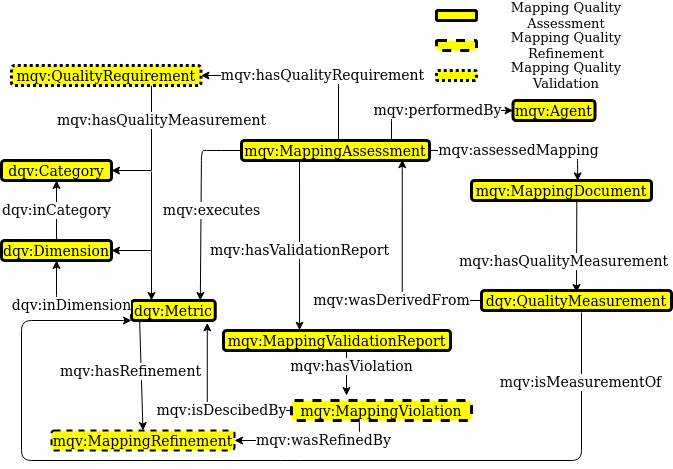
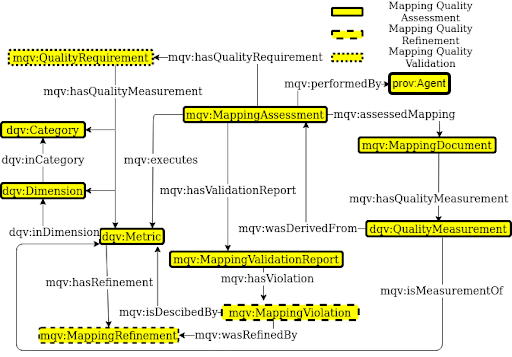
udpating description

diff --git a/sections/description-en.html b/sections/description-en.html
@@ -19,7 +19,7 @@ These stages are categorized as  mapping quality assessment,  mapping quality re
 
 <p> 
 <strong>Mapping quality assessment.</strong>In this stage, the mapping document (mqv:MappingDocument) is assessed. As assessment activity is captured through the mqv:MappingAssessment class. 
-The agent who initiated the process is also captured (mqv:Agent). A mapping assessment activity may have quality requirements, which are captured through the mqv:QualityRequirement 
+The agent who initiated the process is also captured (prov:Agent). A mapping assessment activity may have quality requirements, which are captured through the mqv:QualityRequirement 
 class. This information allows the model to validate whether such quality requirements have been satisfied in the assessment and refinement stage. The model draws inspiration from 
 previous work where data quality was classified into categories (dqv:Category), dimensions (dqv:Dimension) and metrics (dqv:Metric) <a href="#bib-ZaveriEtAl">[ZaveriEtAl]</a>. 
 The DQV  <a href="#bib-DQV">[DQV]</a> defines these quality categories in a machine-readable format. In our model we also allow for refinements to be described. The model uses the information in such classes 
